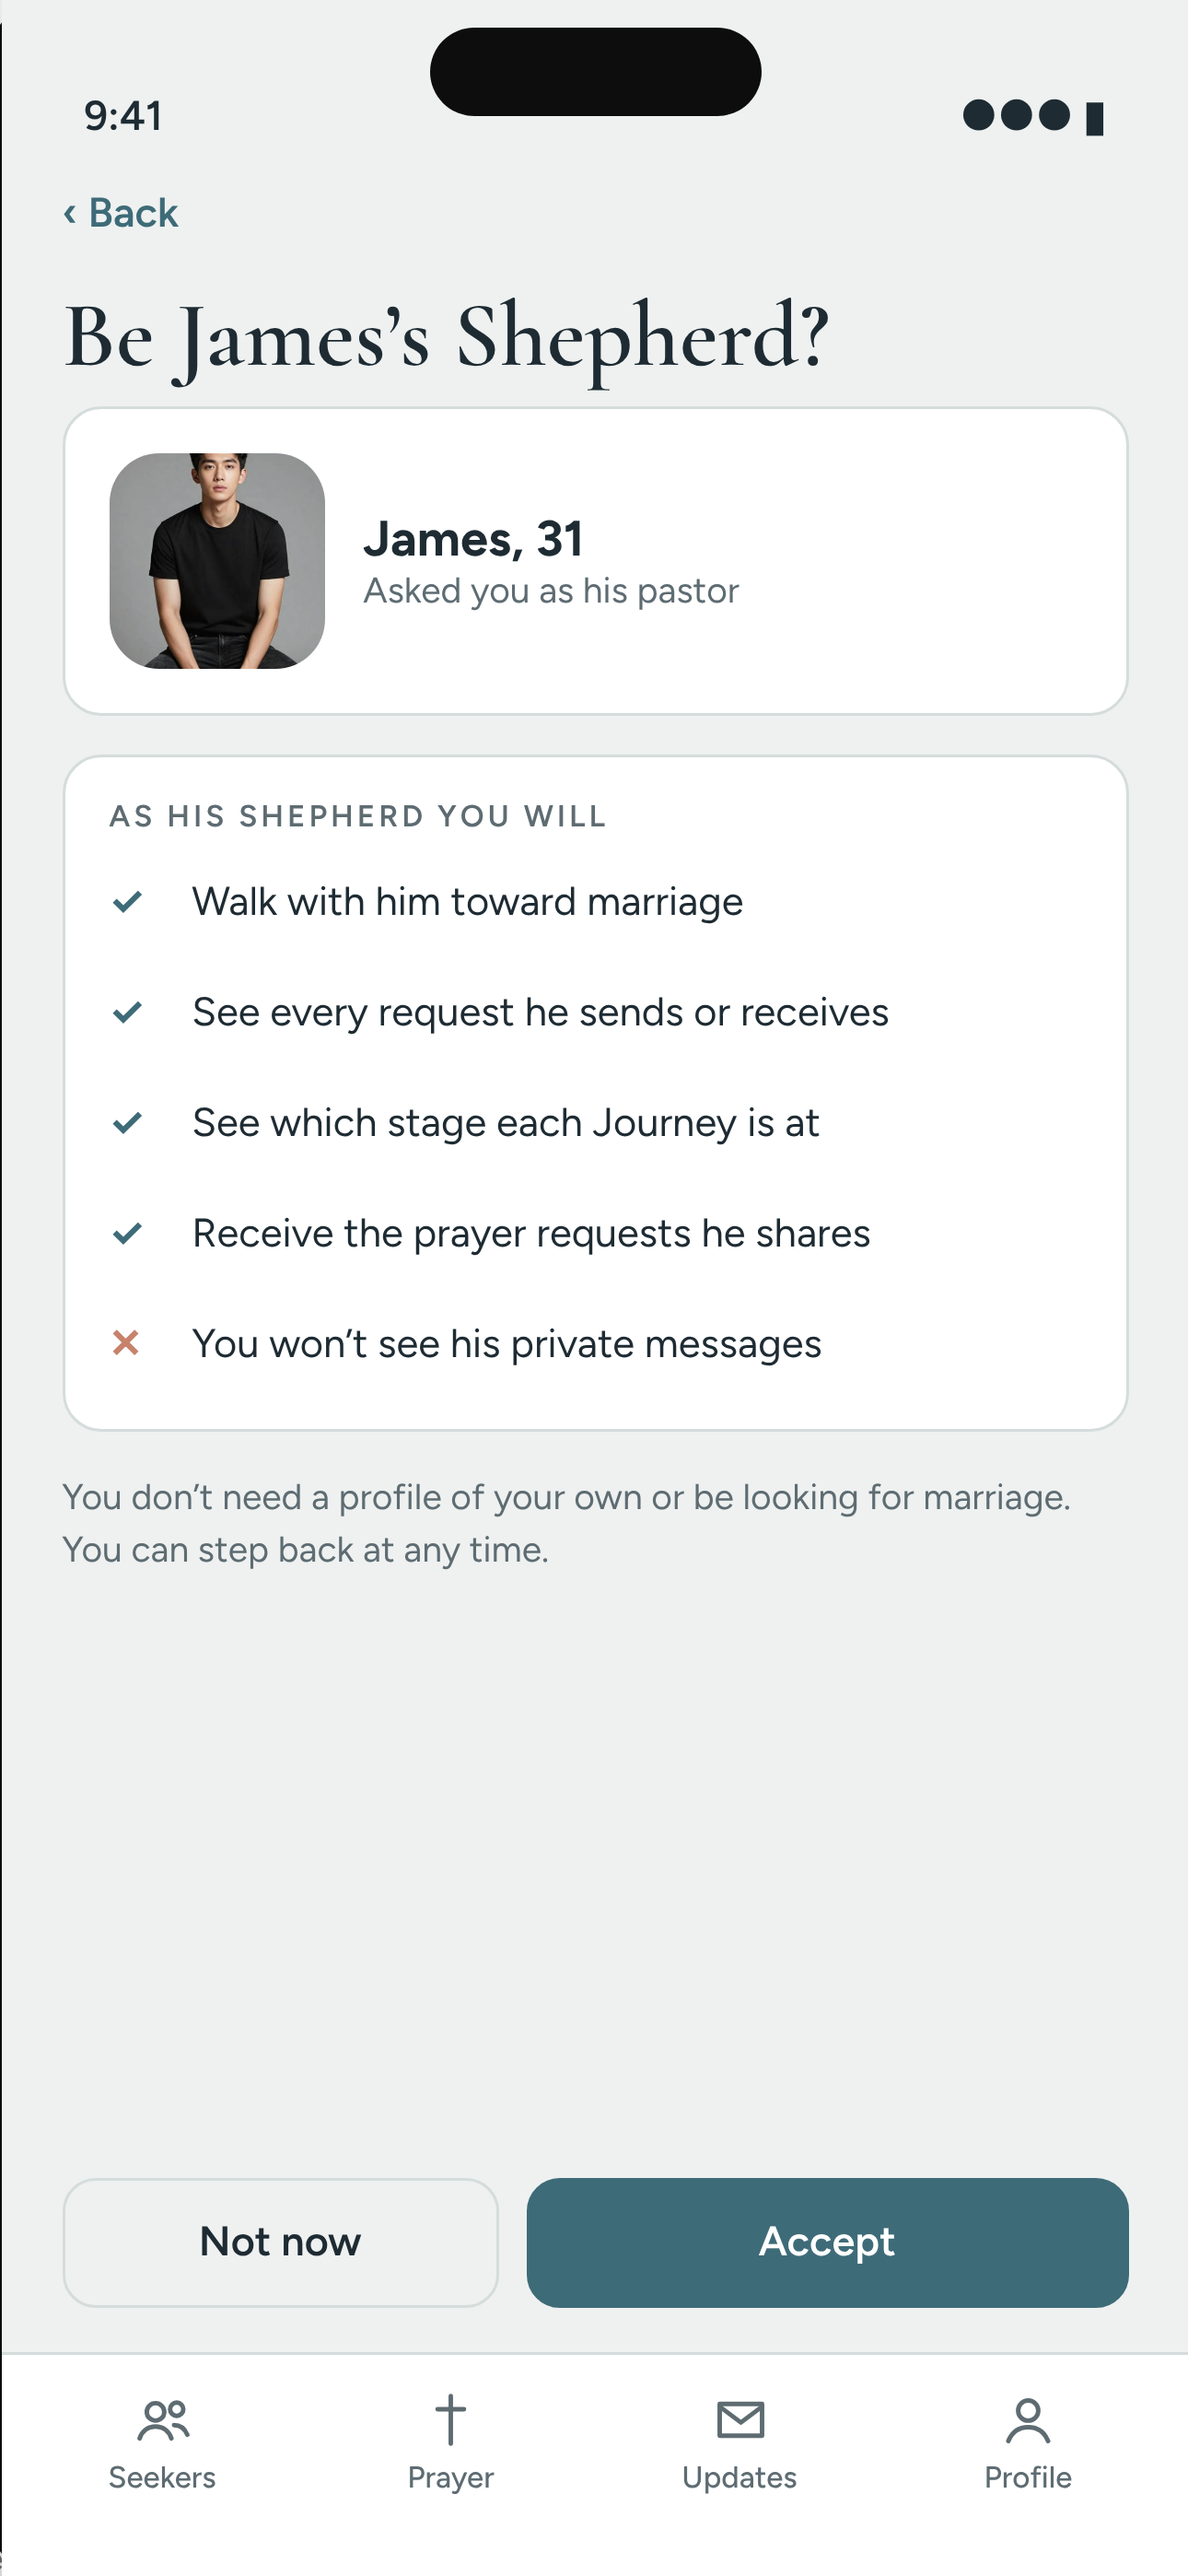
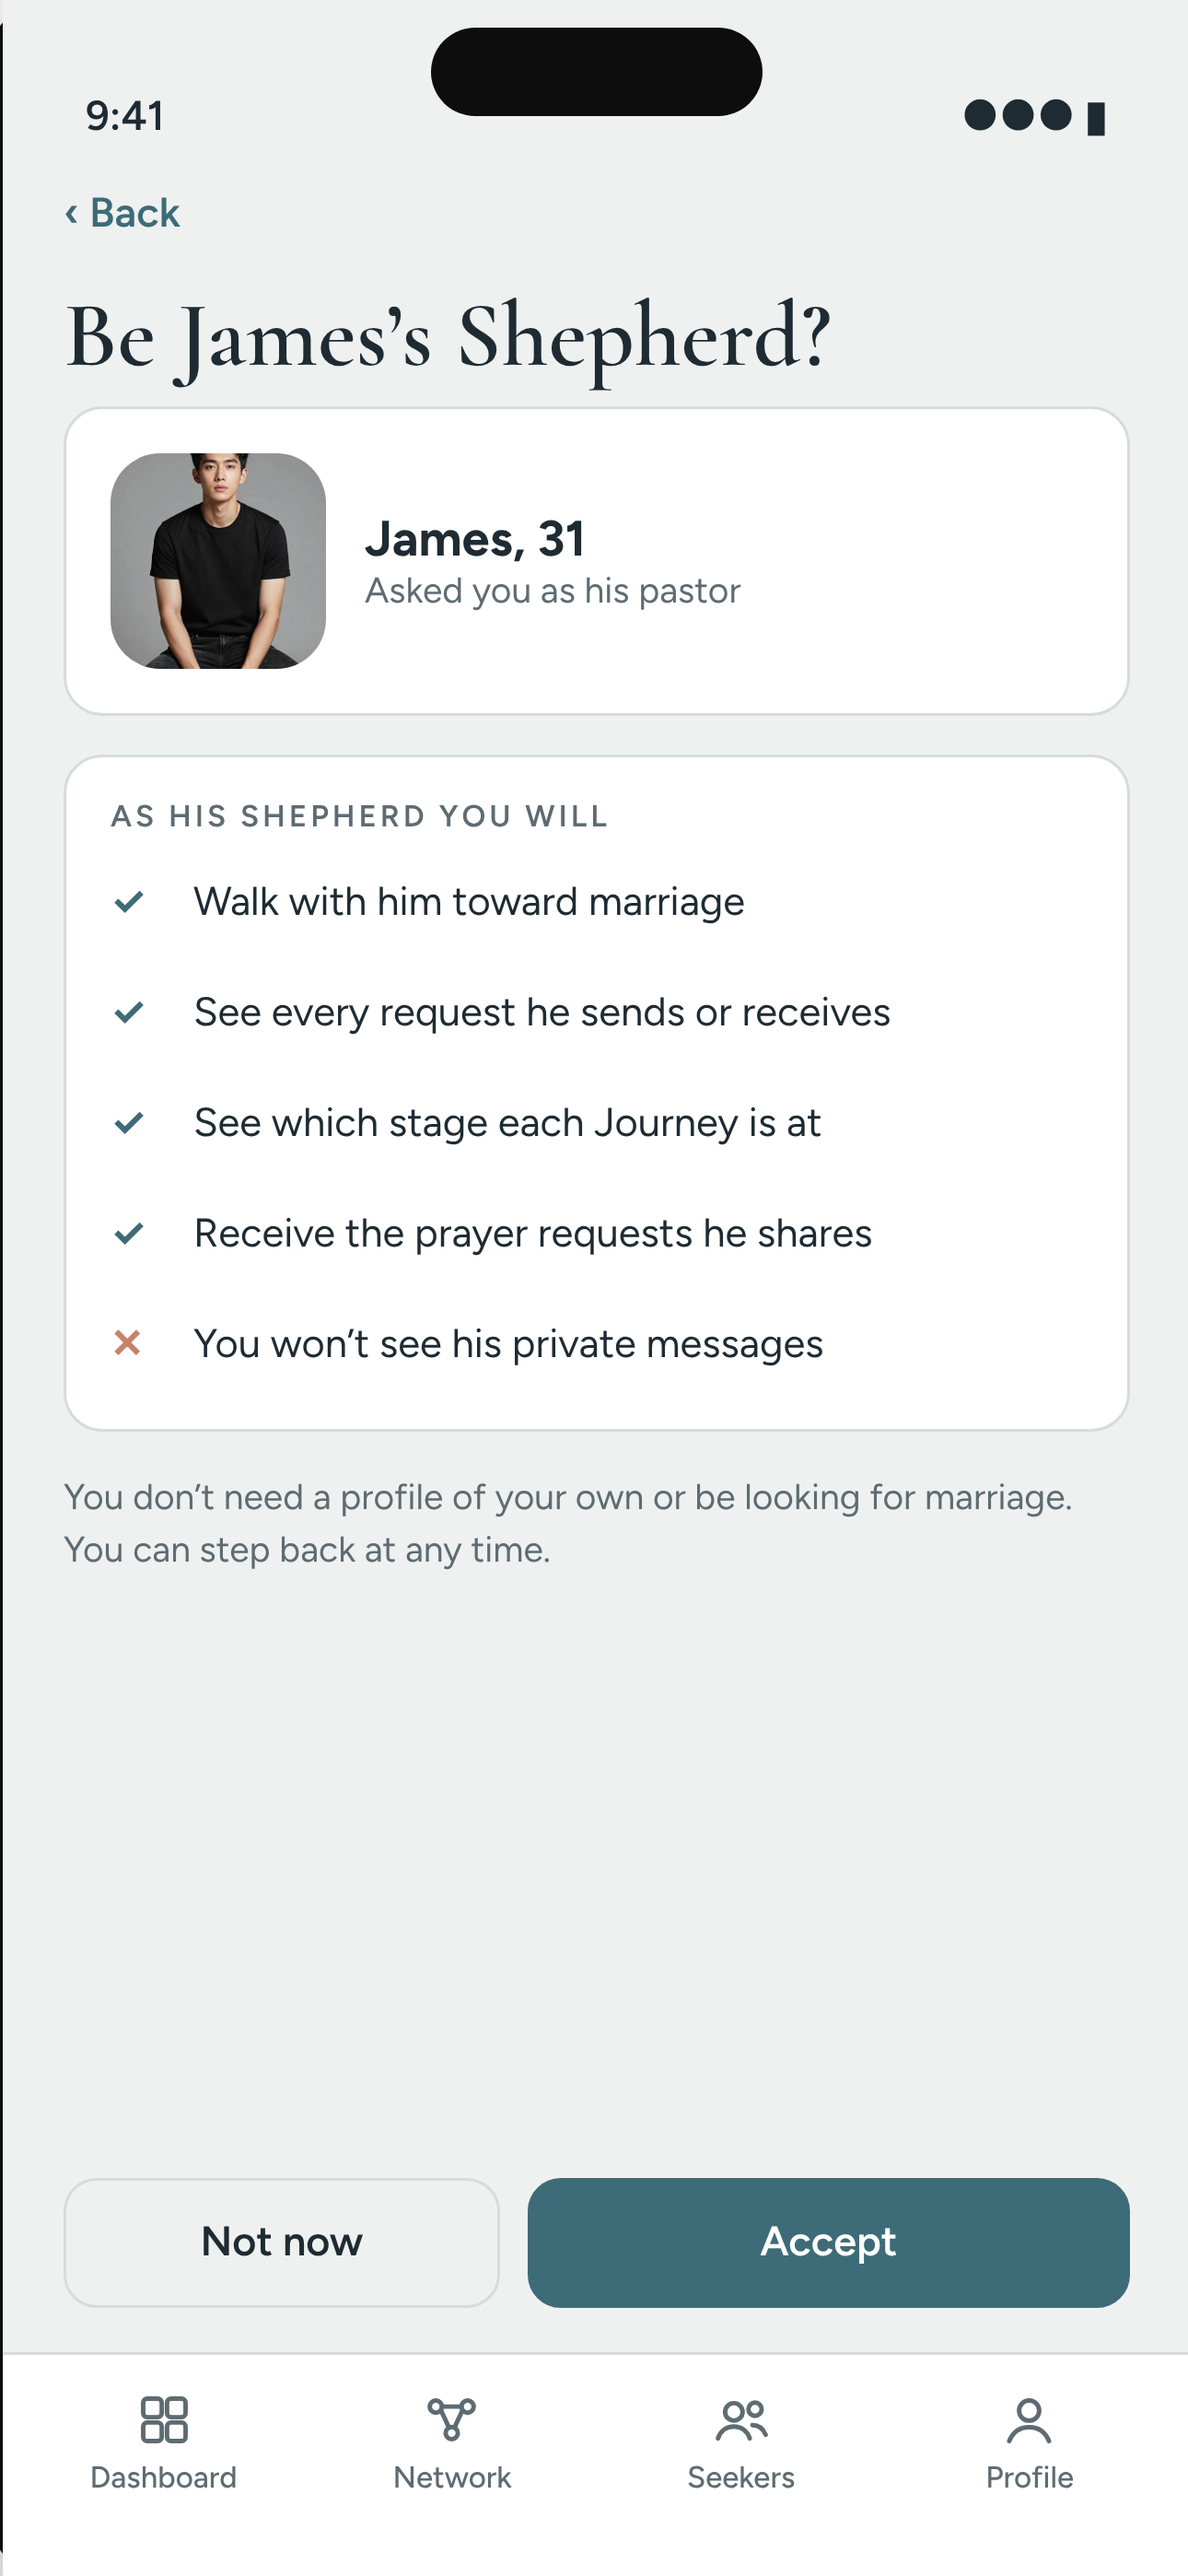
Fix blank-name invite validation and refresh approved comparisons (OA-SELAH-003)

diff --git a/SOURCE/test/masters/shepherd_invite_masters_test.dart b/SOURCE/test/masters/shepherd_invite_masters_test.dart
@@ -39,6 +39,10 @@ const _masters = <String>{
   'L03_shepherd_invitation',
 };
 final _capture = MasterCaptureHarness(feature: 'SHEPHERD_INVITE');
+final _correctionCapture = MasterCaptureHarness(
+  feature: 'SHEPHERD_INVITE',
+  version: 'V1_1',
+);
 
 Finder _key(String value) => find.byKey(ValueKey<String>(value));
 
@@ -250,12 +254,21 @@ void main() {
     await _openInvite(tester, name: false);
     await _tap(tester, _key('invite_send'));
     expect(find.text('Enter your Shepherd’s name.'), findsOneWidget);
-    // LOCK 3 retains this error until the next try. The master shows the
-    // reachable intermediate state after a blank try, then entering a name.
+    // DOC-SELAH-0047: the error belongs only to a trim-empty name. Exercise
+    // editing through valid and whitespace values, then return to the exact
+    // empty field in the corrected master using the real form actions.
     await tester.enterText(_key('invite_name'), _name);
-    await _tap(tester, find.text('THEIR NAME'));
+    await tester.pumpAndSettle();
+    expect(find.text('Enter your Shepherd’s name.'), findsNothing);
+    await tester.enterText(_key('invite_name'), '   ');
+    await tester.pumpAndSettle();
     expect(find.text('Enter your Shepherd’s name.'), findsOneWidget);
-    await _capture.capture(
+    await tester.enterText(_key('invite_name'), '');
+    await _tap(tester, _key('invite_send'));
+    await _tap(tester, find.text('THEIR NAME'));
+    expect(flow.controller.fullName, isEmpty);
+    expect(find.text('Enter your Shepherd’s name.'), findsOneWidget);
+    await _correctionCapture.capture(
       tester,
       flow.screen,
       'L03_signup_invite__name_error',
@@ -350,7 +363,7 @@ void main() {
     );
     await tester.pumpAndSettle();
     expect(find.text('Be James’s Shepherd?'), findsOneWidget);
-    await _capture.capture(tester, screen, 'L03_shepherd_invitation');
+    await _correctionCapture.capture(tester, screen, 'L03_shepherd_invitation');
   });
 
   testWidgets(

diff --git a/SOURCE/test/selah_shepherd_invite_test.dart b/SOURCE/test/selah_shepherd_invite_test.dart
@@ -55,18 +55,26 @@ void main() {
     expect(controller.hasInvite, isFalse);
   });
 
-  test('blank name fails; typing keeps its error until next send attempt', () {
+  test('name error is shown only for trimmed-empty names until next try', () {
     controller.chooseRelation(SelahShepherdRelation.parent);
     controller.setName('   ');
     expect(controller.send(), isFalse);
     expect(controller.showNameError, isTrue);
     expect(controller.hasInvite, isFalse);
     validName();
+    expect(controller.showNameError, isFalse);
+    controller.setName('');
     expect(controller.showNameError, isTrue);
+    controller.setName(' \t\n ');
+    expect(controller.showNameError, isTrue);
+    validName();
+    expect(controller.showNameError, isFalse);
     expect(controller.send(), isTrue);
     expect(controller.showNameError, isFalse);
     expect(controller.fullName, 'David Okafor');
     expect(controller.firstName, 'David');
+    controller.setName('');
+    expect(controller.showNameError, isFalse);
   });
 
   test('normal Send is local, synchronous and pending until accepted', () {

diff --git a/SOURCE/lib/models/selah_shepherd_invite.dart b/SOURCE/lib/models/selah_shepherd_invite.dart
@@ -58,7 +58,8 @@ class SelahShepherdInviteController extends ChangeNotifier {
   }
 
   bool get showChoiceError => _allowed && _showChoiceError;
-  bool get showNameError => _allowed && _showNameError;
+  bool get showNameError =>
+      _allowed && _showNameError && _fullName.trim().isEmpty;
   SelahShepherdInviteSendState get sendState =>
       _allowed ? _sendState : SelahShepherdInviteSendState.idle;
   bool get hasInvite => _allowed && _hasInvite;

diff --git a/README.md b/README.md
@@ -14,7 +14,7 @@ Sample profile pictures are free stock photos, not real members.
 
 The LOCKed Still Water look uses a light mist canvas, lake accents, bundled Figtree and Cormorant Garamond, and a docked tab bar. Existing loading and failure states use the same theme; no live services are enabled.
 
-Private Home → Explore as a Seeker opens the locked Shepherd invite: choose a trusted supporter, enter their name and send locally. After the invite, seven faith questions save into the same local profile draft. The Faith Profile card shows those saved answers and optional own words; the older five faith prompts are replaced. While waiting, Browse remains available; Request and Accept show the waiting message. The private Shepherd acceptance control restores those actions. Explore as a Shepherd can review the pending local request. No message, share sheet, clipboard link or account link is created.
+Private Home → Explore as a Seeker opens the locked Shepherd invite: choose a trusted supporter, enter their name and send locally. Name validation appears after an empty send attempt and hides when a name is typed. After the invite, seven faith questions save into the same local profile draft. The Faith Profile card shows those saved answers and optional own words; the older five faith prompts are replaced. While waiting, Browse remains available; Request and Accept show the waiting message. The private Shepherd acceptance control restores those actions. Explore as a Shepherd can review the pending local request. No message, share sheet, clipboard link or account link is created.
 
 At Open Conversation, the local Journey includes the locked marriage-preparation card. Its three steps can be marked in any order and stay with that local Journey for the session. No courses, external links or live sharing are enabled.
 
@@ -39,7 +39,7 @@ flutter pub get --offline --enforce-lockfile
 flutter test test/masters/look_masters_test.dart test/masters/shepherd_invite_masters_test.dart test/masters/marriage_prep_masters_test.dart test/masters/faith_profile_masters_test.dart test/selah_shepherd_invite_test.dart test/selah_faith_profile_test.dart --dart-define=SELAH_DRAFT_LOCAL_ONLY=true
 ```
 
-Approved comparisons use real Flutter widgets at 430 × 932 and pixel ratio 3. Images live under each feature’s `APP/APPROVED/<FEATURE>/BUILT/V1/` folder. The `APP/APPROVED/COMPARE/` standard explains capture and replay. These checks demonstrate layout and local states; phone installation and native behaviour remain separate.
+Approved comparisons use real Flutter widgets at 430 × 932 and pixel ratio 3. Images live under each feature’s `APP/APPROVED/<FEATURE>/BUILT/<version>/` folder. The `APP/APPROVED/COMPARE/` standard explains capture and replay. These checks demonstrate layout and local states; phone installation and native behaviour remain separate.
 
 ## Private delivery route
 

diff --git a/APP/APPROVED/BUILD_QUEUE.md b/APP/APPROVED/BUILD_QUEUE.md
@@ -30,4 +30,4 @@ that every BUILT line has a LOCK record. Newest line at the bottom. A line block
 | 11 | 2026-11-06 | `APP/APPROVED/PRAYER/BRIEFS/BUILD_BRIEF_2026-11-06_V1.md` | WAITING |  | **LOCKed build** - LOCK 10 V22 Prayer requests on the Shepherd Dashboard (Founder 6 Nov: "A · On the Dashboard — LOCK it"). After: 1, 9. LOCK record `APP/APPROVED/PRAYER/RECORD/LOCK_RECORD.md`. ROADMAP row: Christian content and production experience |
 | 12 | 2026-11-06 | `APP/APPROVED/WORDING/BRIEFS/BUILD_BRIEF_2026-11-06_V1.md` | WAITING |  | **LOCKed build** - LOCK 11 V24 Wording: "Selah" in member-facing text, "Request a Journey" (Founder 6 Nov: "A · “Selah” — LOCK it", "A · “Request a Journey” — LOCK it"). After: 2, 3, 5, 6, 7, 8, 9, 10, 11. LOCK record `APP/APPROVED/WORDING/RECORD/LOCK_RECORD.md`. ROADMAP row: SELAH's own identity and private delivery acceptance |
 | 13 | 2026-11-06 | `APP/APPROVED/SEEKER_SHEPHERD/BRIEFS/BUILD_BRIEF_2026-11-06_V1.md` | WAITING |  | **LOCKed build** - LOCK 12 V26 Seeker Shepherd tab, Main Shepherd first (Founder 6 Nov: "B · Main Shepherd first — LOCK it"). After: 2, 9, 11. LOCK record `APP/APPROVED/SEEKER_SHEPHERD/RECORD/LOCK_RECORD.md`. ROADMAP row: Christian content and production experience |
-| 14 | 2026-11-06 | `APP/APPROVED/REPAIRS/BRIEFS/FIX_BRIEF_2026-11-06_INVITE_NAME_ERROR_V1.md` | WAITING |  | **Build-check fix** (charter rule 8, SELAH chat) - line 2 "no name" state shows a filled name; re-capture invitation beside its corrected master. After: 2. ROADMAP row: SELAH's own identity and private delivery acceptance |
+| 14 | 2026-11-06 | `APP/APPROVED/REPAIRS/BRIEFS/FIX_BRIEF_2026-11-06_INVITE_NAME_ERROR_V1.md` | BUILT | 2026-11-06 | **Build-check fix** (charter rule 8, SELAH chat) - line 2 "no name" state shows a filled name; re-capture invitation beside its corrected master. After: 2. ROADMAP row: SELAH's own identity and private delivery acceptance |

diff --git a/APP/APPROVED/REPAIRS/BRIEFS/FIX_BRIEF_2026-11-06_INVITE_NAME_ERROR_V1.md b/APP/APPROVED/REPAIRS/BRIEFS/FIX_BRIEF_2026-11-06_INVITE_NAME_ERROR_V1.md
@@ -1,0 +1,25 @@
+---
+id: DOC-SELAH-0047
+type: PLAN
+status: CURRENT
+feature: SHEPHERD_INVITE
+purpose: Fix brief from the line 2 build check - the "no name" state shows a filled name with the error
+links: [DOC-SELAH-0020, OA-SELAH-003, AD-AIOS-123]
+owner: SELAH chat
+---
+
+# FIX BRIEF — SHEPHERD INVITE "NO NAME" STATE — 6 NOV 2026 — V1
+
+**Copy exactly. No improvements. Unclear → QUESTIONS.md (rule 10).**
+
+Queue line 14. Build after: 2. ROADMAP row: **SELAH's own identity and private delivery acceptance** (not ticked).
+
+Found by the SELAH chat's build check of line 2 (charter rule 8). Everything else on line 2 matches its masters.
+
+| # | Step | Detail |
+|---|---|---|
+| 1 | Read | `SHEPHERD_INVITE/RECORD/SELAH_SHEPHERD_INVITE_SPEC_CURRENT_VERSION_V4.md` row 3e; master `MASTERS/L03_signup_invite__name_error.png`; your `BUILT/V1/L03_signup_invite__name_error__master_beside_build.png`. |
+| 2 | The gap | Master: name field **empty**, "Enter your Shepherd’s name." under it. Build capture: field shows "David Okafor" with the error under it. |
+| 3 | Fix | If the app can show the error with a name typed, fix the logic (error only when the field is empty after trimming; clears on next try). If the app is right and only the capture typed the name first, fix the capture. Say which in the task note. |
+| 4 | Also re-capture | `L03_shepherd_invitation` - its master was re-rendered with the real Shepherd tabs you built (old master was wrong, not your build). New beside image only; no code change. |
+| 5 | Checks + queue | Same checks as line 2; new beside images in `SHEPHERD_INVITE/BUILT/V1_1/`; mark line 14 BUILT or FAILED. |

diff --git a/APP/APPROVED/SHEPHERD_INVITE/RECORD/LOCK_RECORD.md b/APP/APPROVED/SHEPHERD_INVITE/RECORD/LOCK_RECORD.md
@@ -16,3 +16,4 @@ owner: SELAH chat
 | 3 (change) | 2026-11-06 09:45 | From LOCK 4, 4 Nov: "A · One per screen — LOCK it (Recommended)" | Spec V2: screen 4 Continue → faith question 1. No master changes |
 | 3 (change) | 2026-11-06 13:40 | From LOCK 6: "Yes — LOCK it (Recommended)" | Spec V3: screen 4 Continue → consent screen |
 | 3 (change) | 2026-11-06 15:20 | From LOCK 11: "A · “Request a Journey” — LOCK it (Recommended)" | Spec V4 waiting words; master re-rendered |
+| 3 (fix) | 2026-11-06 | Build check of line 2 (SELAH chat) - no Founder decision needed | Master `L03_shepherd_invitation` was drawn with old invented Shepherd tabs; re-rendered with the real tabs (Dashboard · Network · Seekers · Profile) that line 2 already built. Old one in `ARCHIVE/MASTERS_V2_TABS/`. Spec unchanged |
